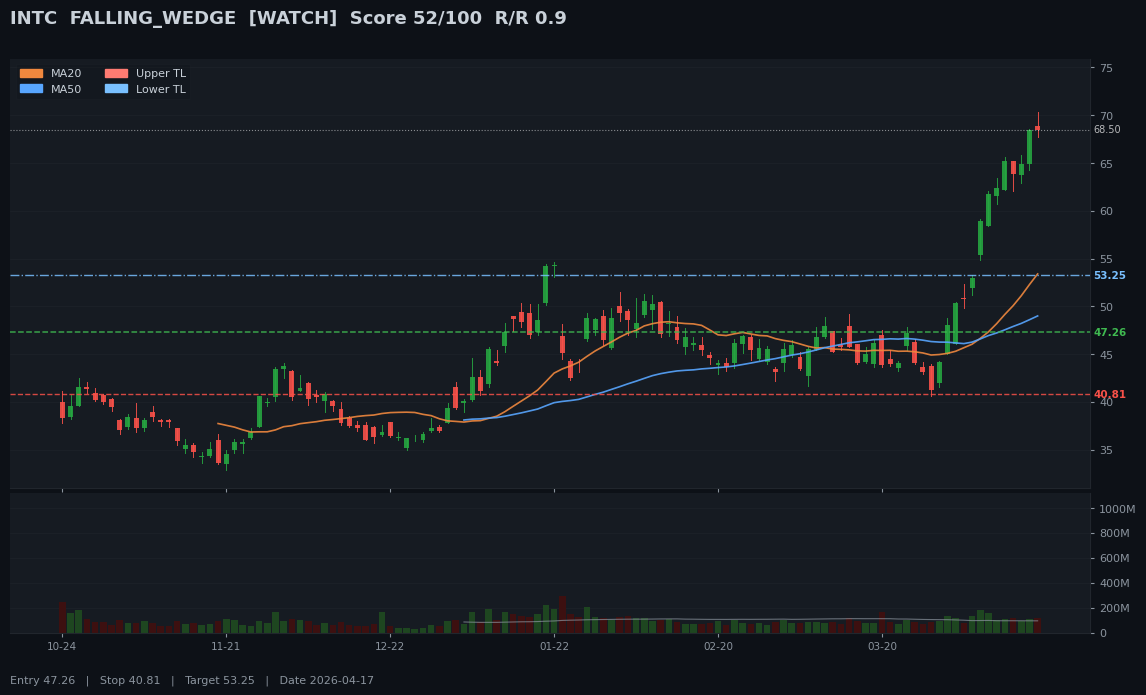
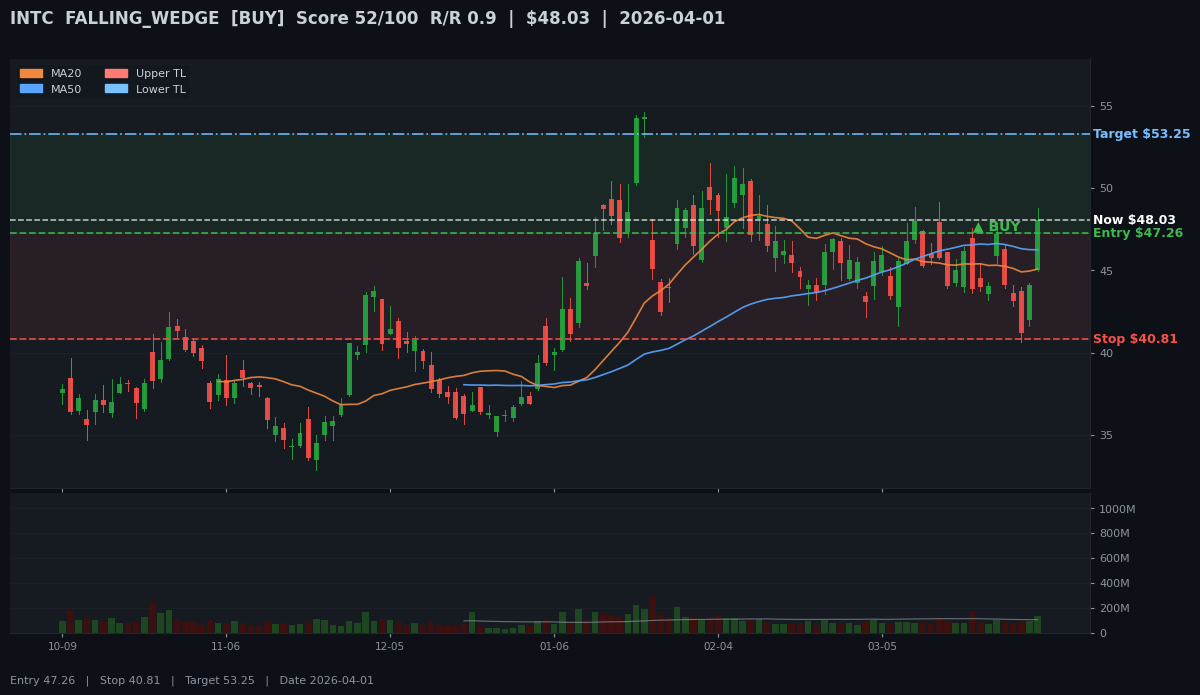
feat: chart visualization with entry/stop/target labels, BUY arrow, date support

diff --git a/output/chart_generator.py b/output/chart_generator.py
@@ -31,7 +31,7 @@ import numpy as np
 import pandas as pd
 
 sys.path.insert(0, str(Path(__file__).parent.parent))
-from data.tiingo_client import get_history
+from data.polygon_client import get_history
 
 # ── 輸出目錄 ──────────────────────────────────────────────────────────────────
 CHART_DIR = Path(__file__).parent.parent / "output" / "charts"
@@ -98,13 +98,15 @@ def _compute_bb(closes: np.ndarray, period: int = 20, std_mult: float = 2.0):
 
 # ── 右側標籤水平線 ────────────────────────────────────────────────────────────
 
-def _hline_labeled(ax, price: Optional[float], color: str, ls: str, lw: float = 1.1) -> None:
-    """繪製水平線 + 右側價格標籤（使用混合坐標系，標籤不被截斷）。"""
+def _hline_labeled(ax, price: Optional[float], color: str, ls: str,
+                   lw: float = 1.3, label: str = "") -> None:
+    """繪製水平線 + 右側帶前綴的價格標籤（使用混合坐標系，標籤不被截斷）。"""
     if price is None:
         return
     ax.axhline(price, color=color, linestyle=ls, linewidth=lw, alpha=0.85, zorder=5)
     trans = blended_transform_factory(ax.transAxes, ax.transData)
-    ax.text(1.003, price, f"{price:.2f}", color=color, fontsize=7.5,
+    tag = f"{label} ${price:.2f}" if label else f"${price:.2f}"
+    ax.text(1.003, price, tag, color=color, fontsize=9,
             va="center", ha="left", transform=trans, clip_on=False,
             fontweight="bold")
 
@@ -202,7 +204,8 @@ def generate_signal_chart(signal: dict, save_path: str = None) -> str:
     action      = signal.get("action", "")
 
     # ── 1. 獲取歷史數據 ───────────────────────────────────────────────────────
-    df = get_history(ticker, days=CHART_DAYS)
+    end_date = signal.get("date") or None
+    df = get_history(ticker, days=CHART_DAYS, end_date=end_date)
     if df.empty or len(df) < 10:
         raise ValueError(f"[chart] {ticker} 無法獲取歷史數據")
 
@@ -263,16 +266,31 @@ def generate_signal_chart(signal: dict, save_path: str = None) -> str:
         _overlay_bollinger(ax_p, closes, xs)
 
     # ── 6. 交易線（Entry / Stop / Target / 當前價） ───────────────────────────
-    _hline_labeled(ax_p, entry_price,  ENTRY_COLOR,  "--",  lw=1.1)
-    _hline_labeled(ax_p, stop_loss,    STOP_COLOR,   "--",  lw=1.0)
-    _hline_labeled(ax_p, target_price, TARGET_COLOR, "-.",  lw=1.0)
+    _hline_labeled(ax_p, entry_price,  ENTRY_COLOR,  "--",  lw=1.3, label="Entry")
+    _hline_labeled(ax_p, stop_loss,    STOP_COLOR,   "--",  lw=1.3, label="Stop")
+    _hline_labeled(ax_p, target_price, TARGET_COLOR, "-.",  lw=1.3, label="Target")
 
-    ax_p.axhline(current_price, color=CURR_COLOR, linestyle=":",
-                 linewidth=0.8, alpha=0.5, zorder=4)
+    # 利潤區（Entry→Target）和風險區（Stop→Entry）半透明填充
+    if entry_price and target_price and target_price > entry_price:
+        ax_p.axhspan(entry_price, target_price, alpha=0.08, color="#3fb950", zorder=1)
+    if stop_loss and entry_price and entry_price > stop_loss:
+        ax_p.axhspan(stop_loss, entry_price, alpha=0.08, color="#f85149", zorder=1)
+
+    # Entry 附近最近 K 線的 BUY 箭頭標記
+    if entry_price:
+        closes_arr = df["close"].values.astype(float)
+        diffs = np.abs(closes_arr - entry_price)
+        x_buy = int(np.argmin(diffs[-20:]) + max(0, n - 20))
+        ax_p.annotate("▲ BUY", xy=(x_buy, entry_price),
+                      fontsize=10, color=ENTRY_COLOR, fontweight="bold",
+                      ha="center", va="bottom", zorder=6)
+
+    ax_p.axhline(current_price, color=CURR_COLOR, linestyle="--",
+                 linewidth=1.1, alpha=0.75, zorder=4)
     trans_curr = blended_transform_factory(ax_p.transAxes, ax_p.transData)
-    ax_p.text(1.003, current_price, f"{current_price:.2f}",
-              color=CURR_COLOR, fontsize=7, va="center", ha="left",
-              transform=trans_curr, alpha=0.7)
+    ax_p.text(1.003, current_price, f"Now ${current_price:.2f}",
+              color=CURR_COLOR, fontsize=9, va="center", ha="left",
+              transform=trans_curr, clip_on=False, fontweight="bold")
 
     # Y 軸留白（包含 entry/stop/target 確保所有交易線可見）
     y_lo = float(df["low"].min())
@@ -325,13 +343,15 @@ def generate_signal_chart(signal: dict, save_path: str = None) -> str:
                 framealpha=0.25, facecolor=BG_COLOR, edgecolor=GRID_COLOR,
                 labelcolor=TEXT_COLOR, fontsize=8, ncol=2)
 
-    # ── 10. 標題 ──────────────────────────────────────────────────────────────
-    score_str = f"  Score {signal.get('score')}/100" if signal.get("score") else ""
-    rr_val    = signal.get("risk_reward")
-    rr_str    = f"  R/R {rr_val}" if rr_val else ""
+    # ── 10. 標題（含當前價格和日期） ─────────────────────────────────────────
+    score_str      = f"  Score {signal.get('score')}/100" if signal.get("score") else ""
+    rr_val         = signal.get("risk_reward")
+    rr_str         = f"  R/R {rr_val}" if rr_val else ""
     action_bracket = f"[{action}]" if action else ""
-    title = f"{ticker}  {signal_type}  {action_bracket}{score_str}{rr_str}"
-    fig.suptitle(title, color=TEXT_COLOR, fontsize=13, fontweight="bold",
+    last_date      = dates[-1] if dates else ""
+    title = (f"{ticker}  {signal_type}  {action_bracket}{score_str}{rr_str}"
+             f"  |  ${current_price:.2f}  |  {last_date}")
+    fig.suptitle(title, color=TEXT_COLOR, fontsize=12, fontweight="bold",
                  x=0.02, ha="left")
 
     # ── 11. 底部信息條 ────────────────────────────────────────────────────────
